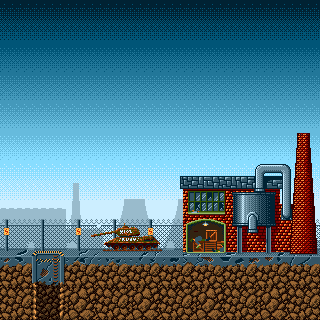
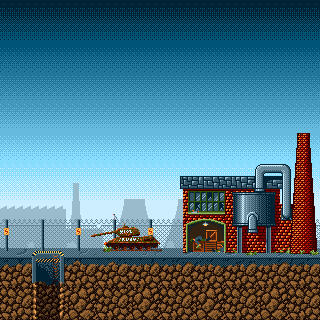
add final base graphics

Changed region(s): [[0.0, 0.6875, 1.0, 0.9062]]

diff --git a/src/base.c b/src/base.c
@@ -59,11 +59,11 @@ static const tBase s_pBases[BASE_ID_COUNT] = {
 	[BASE_ID_DINO] = {
 		.uwTileDepth = BASE_TILE_DEPTH_DINO,
 		.pTilePattern = {
-			43, 43, 43, 43, 43, 43, 43, 43, 43, 43,
-			44, 43, 43, 43, 43, 45, 43, 44, 43, 43,
-			43, 45, 43, 43, 43, 43, 43, 43, 43, 49,
-			43, 43, 43, 43, 43, 48, 45, 43, 43, 45,
-			43, 43, 43, 43, 48, 43, 43, 43, 44, 43,
+			43, 44, 43, 43, 43, 43, 43, 47, 43, 43,
+			43, 43, 43, 43, 44, 43, 43, 43, 49, 43,
+			43, 43, 47, 43, 43, 43, 43, 43, 43, 43,
+			43, 43, 43, 43, 45, 43, 46, 43, 44, 43,
+			43, 48, 43, 43, 43, 43, 43, 43, 43, 43,
 			 0,  1,  2,  3,  4,  5,  6,  7,  8,  9,
 			20, 21, 22, 23, 24, 10, 11, 12, 13, 14,
 			25, 26, 27, 28, 29, 15, 16, 17, 18, 19,
@@ -93,12 +93,12 @@ static const tBase s_pBases[BASE_ID_COUNT] = {
 	[BASE_ID_GATE] = {
 		.uwTileDepth = BASE_TILE_DEPTH_GATE,
 		.pTilePattern = {
-			43, 43, 43, 43, 43, 43, 43, 43, 43, 43,
-			44, 43, 43, 43, 43, 45, 43, 44, 43, 43,
-			43, 45, 43, 43, 43, 43, 43, 43, 43, 49,
-			43, 43, 43, 43, 43, 48, 45, 43, 43, 45,
-			 0,  1, 43, 43,  2,  1, 43, 43, 44, 43,
-			 3,  4, 45, 43,  5,  6, 49,  7, 43, 43,
+			43, 44, 43, 43, 43, 43, 43, 47, 43, 43,
+			43, 43, 43, 43, 44, 43, 43, 43, 49, 43,
+			43, 43, 47, 43, 43, 43, 43, 43, 43, 43,
+			43, 43, 43, 43, 45, 43, 46, 43, 44, 43,
+			 0,  1, 43, 43,  2,  3, 43, 43, 43, 43,
+			 4,  5, 45, 43,  6,  7, 44,  8,  9, 43,
 			12, 13, 43, 43, 14, 15, 16, 17, 18, 19,
 			20, 21, 22, 23, 24, 25, 26, 27, 28, 29,
 			34, 35, 36, 37, 38, 33, 39, 40, 41, 42,
@@ -132,7 +132,7 @@ static const tBase s_pBases[BASE_ID_COUNT] = {
 			43, 43, 47, 43, 43, 43, 43, 43, 43, 43,
 			43, 43, 43, 43, 45, 43, 46, 43, 44, 43,
 			43, 48, 43, 43, 43, 43, 43, 43, 43, 43,
-			43, 43, 45, 43, 43, 43, 44, 43, 43, 43,
+			43, 45, 43, 43, 43, 43, 44, 43, 43, 43,
 			48,  0,  1,  2, 43, 43, 43, 43, 43, 43,
 			23, 24, 25, 26, 27, 28, 29, 30, 31, 32,
 			34, 35, 36, 37, 38, 33, 39, 40, 41, 42,
@@ -161,12 +161,12 @@ static const tBase s_pBases[BASE_ID_COUNT] = {
 	[BASE_ID_DINO_POPULATED] = {
 		.uwTileDepth = BASE_TILE_DEPTH_VARIANT,
 		.pTilePattern = {
-			43, 43, 43, 43, 43, 43, 43, 43, 43, 43,
-			44, 43, 43, 43, 43, 45, 43, 44, 43, 43,
-			43, 45, 43, 43, 43, 43, 43, 43, 43, 49,
-			43, 43, 43, 43, 43, 48, 45, 43, 43, 45,
-			 4,  5, 43, 43,  6,  5, 43, 43, 44, 43,
-			 7,  8, 45, 43,  9, 10, 49, 11, 43, 43,
+			43, 44, 43, 43, 43, 43, 43, 47, 43, 43,
+			43, 43, 43, 43, 44, 43, 43, 43, 49, 43,
+			43, 43, 47, 43, 43, 43, 43, 43, 43, 43,
+			43, 43, 43, 43, 45, 43, 46, 43, 44, 43,
+			43, 48, 43, 43, 43, 43, 43, 43, 43, 43,
+			 0,  1,  2,  3,  4,  5,  6,  7,  8,  9,
 			12, 13, 43, 43, 14, 15, 16, 17, 18, 19,
 			20, 21, 22, 23, 24, 25, 26, 27, 28, 29,
 			34, 35, 36, 37, 38, 33, 39, 40, 41, 42,
